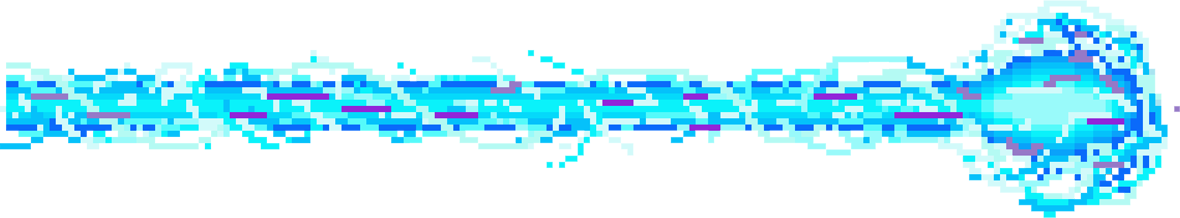
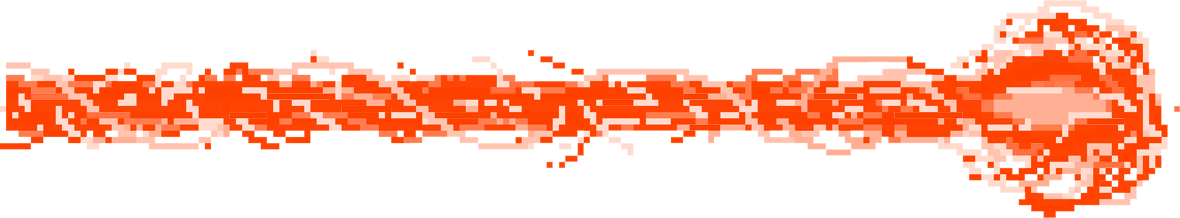
Sprite shot

diff --git a/SDL_MiniGame/Game.cpp b/SDL_MiniGame/Game.cpp
@@ -64,7 +64,7 @@ bool Game::Init()
 	//Init player image
 	IMG_Init(IMG_INIT_PNG);
 	img_player = SDL_CreateTextureFromSurface(Renderer, IMG_Load("Star Fighter sprite.png"));
-	
+	img_shot = SDL_CreateTextureFromSurface(Renderer, IMG_Load("Shot.png"));
 	//Init pigeons image
 	
 	enemy_sprite[0] = SDL_CreateTextureFromSurface(Renderer, IMG_Load("Pigeon Sprite 0.png"));
@@ -96,6 +96,7 @@ void Game::Release()
 	SDL_DestroyTexture(img_player);
 	SDL_DestroyTexture(img_booster);
 	SDL_DestroyTexture(img_menu);
+	SDL_DestroyTexture(img_shot);
 	//Mix_FreeMusic(Music);
 	SDL_Quit();
 }
@@ -378,7 +379,7 @@ void Game::Draw()
 		if (Shots[i].IsAlive())
 		{
 			Shots[i].GetRect(&rc.x, &rc.y, &rc.w, &rc.h);
-			SDL_RenderFillRect(Renderer, &rc);
+			SDL_RenderCopy(Renderer, img_shot, NULL, &rc);
 		}
 	}
 

diff --git a/SDL_MiniGame/Game.h b/SDL_MiniGame/Game.h
@@ -27,10 +27,6 @@ public:
 	bool Input();
 	bool Update();
 	void Draw();
-	
-	
-	
-	
 
 private:
 	SDL_Window* Window;
@@ -55,7 +51,7 @@ private:
 	bool nukeAlpha;
 	
 
-	SDL_Texture* img_player, * enemy_sprite[7], * img_menu, *img_booster, *img_background;
+	SDL_Texture* img_player, * enemy_sprite[7], * img_menu, *img_booster, *img_background, *img_shot;
 
 	enum KEY_STATE { KEY_IDLE, KEY_DOWN, KEY_REPEAT, KEY_UP };
 	KEY_STATE keys[MAX_KEYS];
